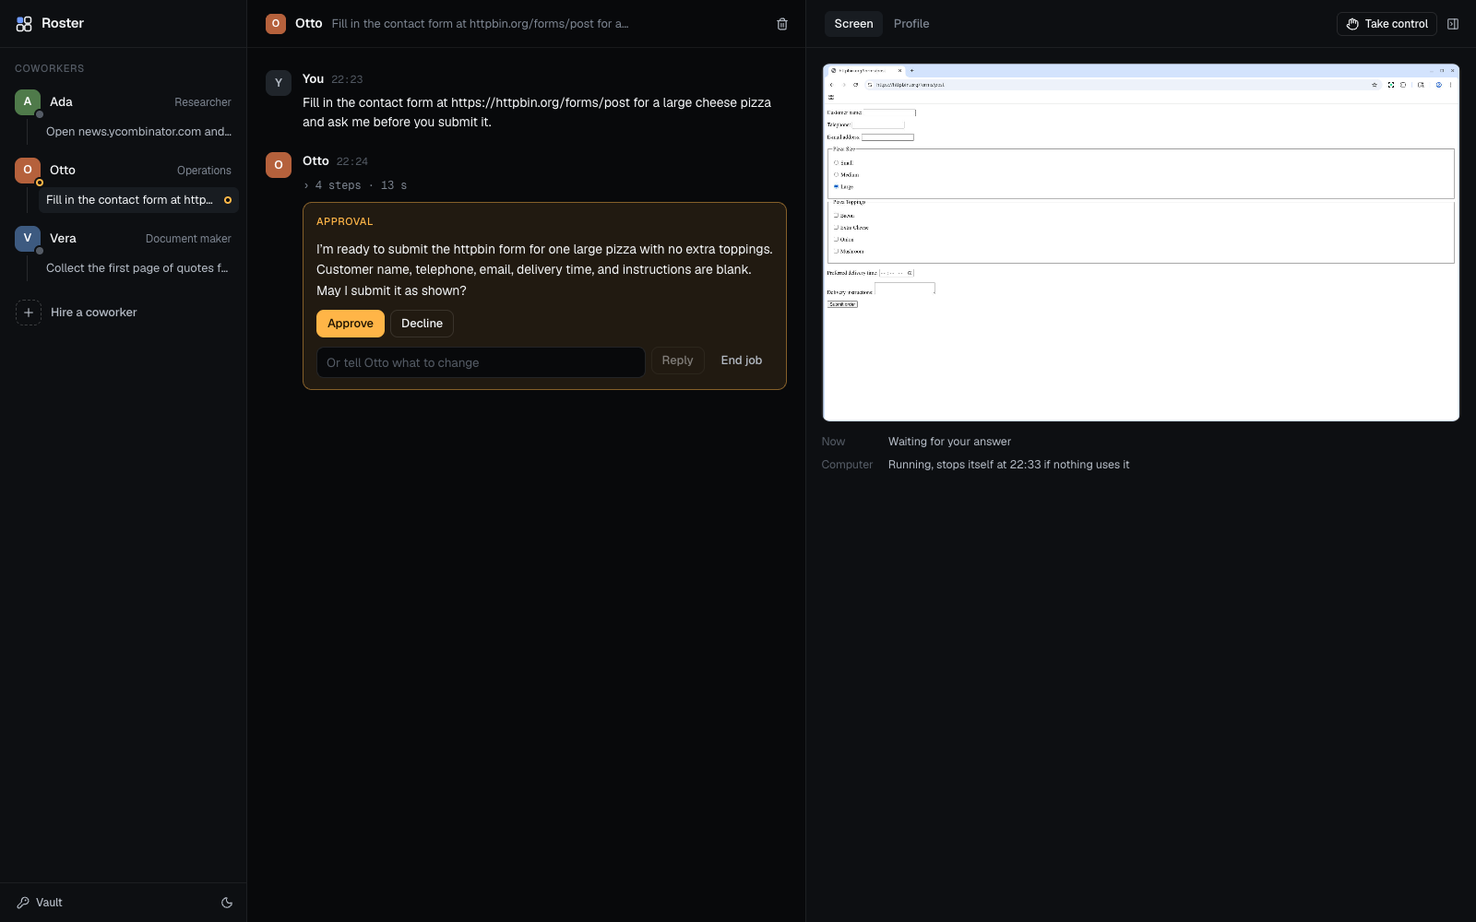
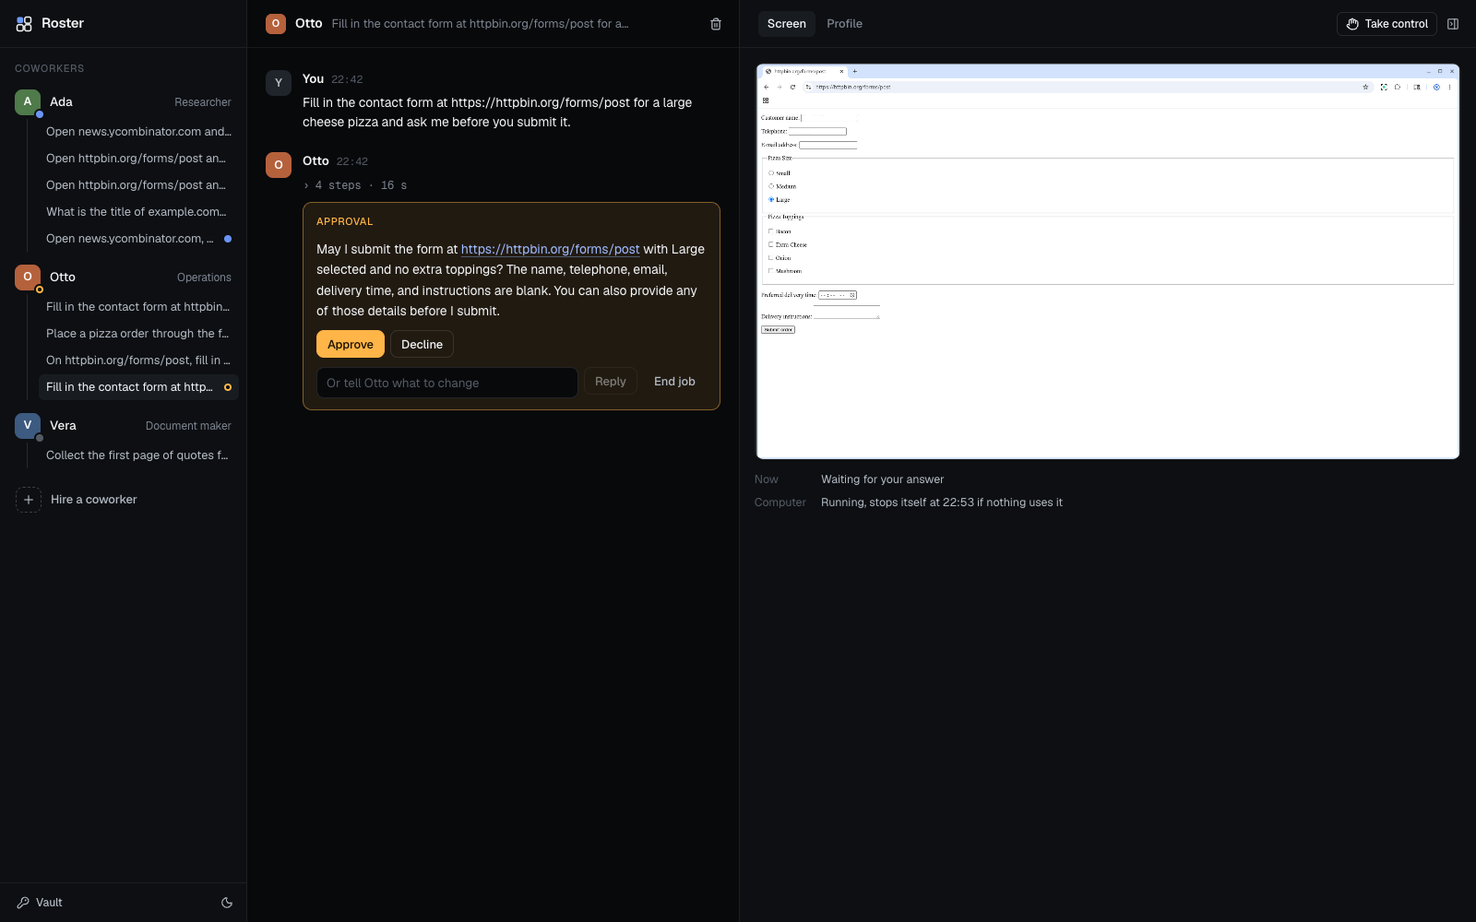
feat(coworkers): show waiting jobs plainly, and document the example
A job that is queued or whose Computer is still starting had a steer box
and a "session has ended" screen, which read as broken. The composer and
the screen now say the job is waiting to start. The conversation column
is narrower so the live screen gets the room.

Adds the README, the build log, screenshots taken from real jobs, and
tests for the step folding and the job rules.

diff --git a/examples/coworkers/src/ui/thread/Screen.tsx b/examples/coworkers/src/ui/thread/Screen.tsx
@@ -24,6 +24,8 @@ export function Screen({ coworker, thread, doing, idleDeadline, onRelease }: Scr
   const driving = thread.status === "yours";
   const left = idleDeadline ? Math.ceil((Date.parse(idleDeadline) - now) / 1000) : null;
   const state = coworker.computer;
+  // A job that is queued, or whose Computer is still starting, has no session to show yet.
+  const pending = !thread.stream && thread.status === "working";
 
   return (
     <div className="screen">
@@ -38,16 +40,26 @@ export function Screen({ coworker, thread, doing, idleDeadline, onRelease }: Scr
           </button>
         </div>
       ) : null}
-      <div className="frame" data-driver={driving ? "human" : thread.status === "working" ? "agent" : undefined}>
+      <div className="frame" data-driver={driving ? "human" : thread.status === "working" && thread.stream ? "agent" : undefined}>
         {thread.stream ? (
           <Desktop thread={thread.id} stream={thread.stream} driving={driving} onProblem={onProblem} />
         ) : (
           <div className="frame-msg">
             <MonitorOff />
-            <h2>{state === "starting" ? `Starting ${coworker.name}'s computer` : state === "running" ? "This thread's session has ended" : state === "none" ? `${coworker.name} has no computer yet` : `${coworker.name}'s computer is stopped`}</h2>
-            <p>
+            <h2>
               {state === "starting"
-                ? "It takes a moment. The screen appears here."
+                ? `Starting ${coworker.name}'s computer`
+                : pending
+                  ? `Waiting for ${coworker.name}'s computer`
+                  : state === "running"
+                    ? "This thread's session has ended"
+                    : state === "none"
+                      ? `${coworker.name} has no computer yet`
+                      : `${coworker.name}'s computer is stopped`}
+            </h2>
+            <p>
+              {state === "starting" || pending
+                ? "The screen appears here when the job starts."
                 : state === "none"
                   ? "Its first job creates one."
                   : "The next message here opens it again, with its sign-ins and skills. Answers and files in the thread are kept."}
@@ -58,7 +70,7 @@ export function Screen({ coworker, thread, doing, idleDeadline, onRelease }: Scr
       {problem && thread.stream ? <p className="problem">{problem}</p> : null}
       <dl className="now">
         <dt>Now</dt>
-        <dd>{driving ? "Waiting for you to hand back" : thread.status === "working" ? (doing ?? "Working") : thread.status === "asking" ? "Waiting for your answer" : "Idle"}</dd>
+        <dd>{driving ? "Waiting for you to hand back" : pending ? "Waiting to start" : thread.status === "working" ? (doing ?? "Working") : thread.status === "asking" ? "Waiting for your answer" : "Idle"}</dd>
         <dt>Computer</dt>
         <dd>
           {state === "running" ? `Running${coworker.expiresAt ? `, stops itself at ${clock(Date.parse(coworker.expiresAt))} if nothing uses it` : ""}` : state === "none" ? "Not created yet" : state[0].toUpperCase() + state.slice(1)}

diff --git a/examples/coworkers/src/server/jobs.test.ts b/examples/coworkers/src/server/jobs.test.ts
@@ -1,0 +1,74 @@
+import { mkdtemp, rm } from "node:fs/promises";
+import { tmpdir } from "node:os";
+import path from "node:path";
+import { afterAll, describe, expect, it, vi } from "vitest";
+
+vi.mock("server-only", () => ({}));
+
+const dataDir = await mkdtemp(path.join(tmpdir(), "coworkers-jobs-"));
+process.env.COWORKERS_DATA_DIR = dataDir;
+process.env.COWORKERS_SECRET = "a-secret-for-the-tests-only";
+const { open, read, seal } = await import("./store");
+const { context, titleOf } = await import("./jobs");
+const { storedFile } = await import("./turns");
+const { secretValues, setSecret, listSecrets } = await import("./vault");
+
+afterAll(() => rm(dataDir, { recursive: true, force: true }));
+
+describe("the store", () => {
+  it("starts a new workspace with three coworkers and no Computers", async () => {
+    const { coworkers, threads } = await read();
+    expect(coworkers.map((c) => c.name)).toEqual(["Ada", "Otto", "Vera"]);
+    expect(coworkers.every((c) => c.computer === undefined && c.suggestion)).toBe(true);
+    expect(threads).toEqual([]);
+  });
+
+  it("seals a secret so that only the key opens it", () => {
+    const sealed = seal("credentials");
+    expect(sealed).not.toContain("credentials");
+    expect(open(sealed)).toBe("credentials");
+  });
+});
+
+describe("context", () => {
+  const ada = { name: "Ada", role: "Researcher", brief: "Finds things out." };
+
+  it("carries the coworker's role and brief, and the approval rule", () => {
+    const text = context(ada);
+    expect(text).toContain("You are Ada, the researcher on this team. Finds things out.");
+    expect(text).toContain("Approval needed:");
+    expect(text).not.toContain("Earlier in this thread");
+  });
+
+  it("tells a freshly opened session what the thread already covered", () => {
+    const text = context(ada, [{ ask: "Top stories?", summary: "Three stories." }]);
+    expect(text).toContain("- Asked: Top stories?");
+    expect(text).toContain("You answered: Three stories.");
+  });
+});
+
+describe("titleOf", () => {
+  it("names a thread after its first message, without the scheme", () => {
+    expect(titleOf("Open https://news.ycombinator.com and\n give me the top three")).toBe("Open news.ycombinator.com and give me the top three");
+  });
+});
+
+describe("storedFile", () => {
+  it("keeps a returned file inside its job's folder", () => {
+    expect(storedFile("job-1", "out/report.pdf")).toBe(path.join(dataDir, "files", "job-1", "out", "report.pdf"));
+    expect(() => storedFile("job-1", "../job-2/report.pdf")).toThrow();
+  });
+});
+
+describe("the vault", () => {
+  it("lists names and never values", async () => {
+    await setSecret({ name: "CRM_PASSWORD", value: "hunter2", note: "The CRM" });
+    expect(JSON.stringify(await listSecrets())).not.toContain("hunter2");
+    expect(await secretValues()).toEqual({ CRM_PASSWORD: "hunter2" });
+    expect(JSON.stringify(await read())).not.toContain("hunter2");
+  });
+
+  it("refuses a name a shell couldn't use", async () => {
+    await expect(setSecret({ name: "my key", value: "x" })).rejects.toThrow();
+  });
+});

diff --git a/examples/coworkers/src/shared/fold.test.ts b/examples/coworkers/src/shared/fold.test.ts
@@ -1,0 +1,53 @@
+import { describe, expect, it } from "vitest";
+import { question } from "./api";
+import type { WireEvent } from "./events";
+import { fold, latest, stepCount } from "./fold";
+
+const event = (id: number, extra: Partial<WireEvent>): WireEvent => ({ id, turnId: "t1", at: 1000 * id, type: "x", ...extra });
+const step = (id: string, state: string, title = "Open a page") => ({ step: { id, state, kind: "browser", title } });
+
+describe("fold", () => {
+  it("keeps one row per step, updated when the step ends", () => {
+    const work = fold([
+      event(1, { input: { kind: "run", text: "Find it" } }),
+      event(2, { progress: { text: "Looking." } }),
+      event(3, step("s1", "running")),
+      event(4, step("s1", "completed")),
+      event(5, step("s2", "running", "Read the page")),
+    ]).get("t1")!;
+    expect(work.items.map((item) => item.kind)).toEqual(["note", "step", "step"]);
+    expect(work.items[1]).toMatchObject({ id: "s1", state: "completed", at: 3000 });
+    expect(stepCount(work.items)).toBe("2 steps");
+    expect(latest(work.items)).toBe("Read the page");
+  });
+
+  it("ignores an event it has already folded", () => {
+    const events = [event(1, { progress: { text: "Once." } })];
+    expect(fold([...events, ...events]).get("t1")!.items).toHaveLength(1);
+  });
+
+  it("keeps each turn's work apart, with a steer inside the turn it steered", () => {
+    const turns = fold([
+      event(1, step("s1", "completed")),
+      event(2, { input: { kind: "steer", text: "Only the first page" } }),
+      event(3, { outcome: { reason: "needs_input", summary: "Which one?", files: [], durationMs: 3000, cost: null } }),
+      event(4, { turnId: "t2", input: { kind: "answer", text: "The first" } }),
+      event(5, { turnId: "t2", ...step("s2", "running") }),
+    ]);
+    expect(turns.get("t1")!.items.map((item) => item.kind)).toEqual(["step", "steer"]);
+    expect(turns.get("t1")!.outcome).toMatchObject({ reason: "needs_input", at: 3000 });
+    expect(turns.get("t2")!.items).toHaveLength(1);
+    expect(turns.get("t2")!.startedAt).toBe(4000);
+  });
+});
+
+describe("question", () => {
+  it("reads the approval mark and leaves it out of what is shown", () => {
+    expect(question("Approval needed:\nI am about to submit the order.")).toEqual({ approval: true, text: "I am about to submit the order." });
+    expect(question("  approval needed: send it?")).toEqual({ approval: true, text: "send it?" });
+  });
+
+  it("leaves any other question as it is", () => {
+    expect(question("Which account should I use?")).toEqual({ approval: false, text: "Which account should I use?" });
+  });
+});

diff --git a/examples/coworkers/src/ui/thread/Composer.tsx b/examples/coworkers/src/ui/thread/Composer.tsx
@@ -5,8 +5,8 @@ import { useRef, useState } from "react";
 import { useWorkspace } from "../app/Workspace";
 
 export interface ComposerProps {
-  /** job: a new job; steer: guidance while it works. */
-  mode: "job" | "steer";
+  /** job: a new job; steer: guidance while it works; wait: its job hasn't started, so there is nothing to steer yet. */
+  mode: "job" | "steer" | "wait";
   name: string;
   onSend: (text: string) => Promise<boolean>;
   /** Stops the job under way. */
@@ -16,10 +16,11 @@ export interface ComposerProps {
 const PLACEHOLDER = {
   job: (name: string) => `Give ${name} a job`,
   steer: (name: string) => `Steer ${name} while it works`,
+  wait: (name: string) => `${name} hasn't started on this yet`,
 };
-const HINT = { job: "", steer: "It reads this at its next step" };
+const HINT = { job: "", steer: "It reads this at its next step", wait: "" };
 
-/** One box for both: what a message means depends on what the coworker is doing. */
+/** One box for every case: what a message means depends on what the coworker is doing. */
 export function Composer({ mode, name, onSend, onStop }: ComposerProps) {
   const { ws } = useWorkspace();
   const [text, setText] = useState("");
@@ -64,6 +65,7 @@ export function Composer({ mode, name, onSend, onStop }: ComposerProps) {
           ref={box}
           value={text}
           rows={2}
+          disabled={mode === "wait"}
           placeholder={PLACEHOLDER[mode](name)}
           aria-label={PLACEHOLDER[mode](name)}
           onChange={(event) => setText(event.target.value)}

diff --git a/examples/coworkers/src/app/globals.css b/examples/coworkers/src/app/globals.css
@@ -179,7 +179,7 @@ a { color: inherit; text-decoration: none; }
 .hire { margin: 6px 0 0; justify-content: flex-start; color: var(--fg-3); height: 36px; padding: 0 8px; gap: 10px; }
 .hire .plus { display: grid; place-items: center; width: 28px; height: 28px; border-radius: 8px; border: 1px dashed var(--line-3); }
 
-.main { display: grid; grid-template-columns: minmax(400px, 5fr) minmax(0, 6fr); min-width: 0; min-height: 0; }
+.main { display: grid; grid-template-columns: minmax(400px, 4fr) minmax(0, 6fr); min-width: 0; min-height: 0; }
 .main[data-panel="closed"] { grid-template-columns: minmax(0, 1fr); }
 .col { display: grid; grid-template-rows: 52px minmax(0, 1fr) auto; min-width: 0; min-height: 0; }
 .col + .col { border-left: 1px solid var(--line); background: var(--bg-elev); }
@@ -271,6 +271,7 @@ a { color: inherit; text-decoration: none; }
 .composer:focus-within { border-color: var(--accent); }
 .composer textarea { display: block; width: 100%; min-height: 56px; max-height: 40vh; resize: none; padding: 11px 13px 2px; border: 0; background: transparent; font-size: 14px; line-height: 1.5; outline: none; }
 .composer textarea::placeholder { color: var(--fg-4); }
+.composer[data-mode="wait"] { background: none; }
 .composer-bar { display: flex; align-items: center; gap: 4px; padding: 4px 6px 6px; }
 .composer-bar .mode { font-size: 11.5px; color: var(--fg-4); margin-left: 4px; }
 .composer-bar .push { margin-left: auto; display: flex; gap: 6px; }

diff --git a/examples/coworkers/src/ui/thread/ThreadView.tsx b/examples/coworkers/src/ui/thread/ThreadView.tsx
@@ -44,7 +44,7 @@ export function ThreadView({ id }: { id: string }) {
   if (!thread || !coworker) return null;
 
   const last = jobs.at(-1);
-  const mode = last?.state === "needs_input" ? "answer" : last && WORKING.has(last.state) ? "steer" : "job";
+  const mode = last?.state === "needs_input" ? "answer" : last && WORKING.has(last.state) ? (last.turnId ? "steer" : "wait") : "job";
   const base = `/api/threads/${enc(id)}`;
   const jobAction = (job: JobView, action: string, text?: string) => act(() => call(`${base}/jobs/${enc(job.id)}`, { body: { action, text } })).then((done) => done !== undefined);
   const send = (text: string) => {
@@ -100,7 +100,7 @@ export function ThreadView({ id }: { id: string }) {
           </div>
         </div>
         {/* While it asks, the question's own reply box is the way to answer. */}
-        {mode === "answer" ? <span /> : <Composer mode={mode} name={coworker.name} onSend={send} onStop={mode === "steer" && last ? () => void jobAction(last, "cancel") : undefined} />}
+        {mode === "answer" ? <span /> : <Composer mode={mode} name={coworker.name} onSend={send} onStop={mode !== "job" && last ? () => void jobAction(last, "cancel") : undefined} />}
       </section>
 
       {panel ? (

diff --git a/examples/coworkers/src/ui/thread/Conversation.tsx b/examples/coworkers/src/ui/thread/Conversation.tsx
@@ -258,7 +258,7 @@ function LearnNote({ job, onReview }: { job: JobView; onReview: () => void }) {
           Skill active: <b className="mono">{learn.name}</b>
         </>
       ) : (
-        `No skill came of it. ${learn.reason ?? ""}`
+        `No skill came of it: ${learn.reason ?? "nothing in it was worth keeping"}.`
       )}
     </span>
   );

diff --git a/examples/coworkers/README.md b/examples/coworkers/README.md
@@ -1,0 +1,124 @@
+# Pine Computer coworkers
+
+A team chat where some of the members are AI coworkers, and each coworker has a computer
+of its own. Built on [Pine Computer](https://pinecomputer.io): every coworker gets its own
+Computer, with its own sign-ins, files and learned skills, and Pine's agent does the work.
+There is no model key in this app.
+
+It ships as **Roster**, a name to replace: rename it in [`src/brand.ts`](src/brand.ts),
+change `--accent` in [`src/app/globals.css`](src/app/globals.css), and it's yours. It is
+the [starter](../starter) rearranged around many Computers instead of one, on the same
+two SDKs: the TypeScript server SDK,
+[`@pinesandbox/computer`](https://www.npmjs.com/package/@pinesandbox/computer), and the Web
+SDK, [`@pinesandbox/computer-web`](https://www.npmjs.com/package/@pinesandbox/computer-web).
+
+![A thread with a coworker at work: its steps on the left, its Computer's live screen on the right](docs/working.png)
+
+## What it does
+
+| Feature | What a person does | How it's built | Where |
+| --- | --- | --- | --- |
+| **Coworkers** | Start with three (a researcher, an operator, a document maker) and hire more with a name, a role and a brief | A record per coworker; the role and brief go with every job as the run's `context` | [`src/server/seed.ts`](src/server/seed.ts), [`src/server/jobs.ts`](src/server/jobs.ts) |
+| **A Computer each, created lazily** | Nothing: a coworker's first job creates its Computer, later jobs reuse it, and it stops itself when idle | `createComputer` on first use, `reconnectComputer` from saved records, `startComputer` after a stop, `idleTimeoutSeconds` | [`src/server/pine.ts`](src/server/pine.ts) |
+| **Threads** | Message a coworker; follow up in the same thread; run several threads at once | A thread is one session (`createSession`, `adoptSession`); a message is `agent.run` with an idempotency key | [`src/server/jobs.ts`](src/server/jobs.ts), [`api/threads/[thread]/jobs`](src/app/api/threads/[thread]/jobs/route.ts) |
+| **The work, live** | Watch its steps arrive as compact rows, then settle into one line ("12 steps · 1 min 40 s") | `agent.events({ frames: false })` relayed as a resumable server-sent stream, folded into rows | [`…/events`](src/app/api/threads/[thread]/events/route.ts), [`src/shared/fold.ts`](src/shared/fold.ts) |
+| **Questions and approvals** | Reply under its question; Approve or Decline in one tap when it asks before it spends, sends or submits | A turn that ends `needs_input`; `agent.answer` naming that turn. The context tells it to ask and to mark approvals | [`src/ui/thread/Conversation.tsx`](src/ui/thread/Conversation.tsx), [`src/shared/api.ts`](src/shared/api.ts) |
+| **Steer and stop** | Send a message while it works, or stop it | `agent.steer`, `agent.cancel` | [`api/threads/[thread]/jobs/[job]`](src/app/api/threads/[thread]/jobs/[job]/route.ts) |
+| **The screen, and control** | See the coworker's desktop beside the thread; take control, drive, hand back | `delegateDesktop` into `<PineDesktop>`; `takeControl` / `releaseControl`; `controlEvents()` | [`src/ui/thread/Screen.tsx`](src/ui/thread/Screen.tsx), [`…/control`](src/app/api/threads/[thread]/control/route.ts) |
+| **Files** | Open or download what a job made, also after its Computer has stopped | Each file in the turn's `result.artifacts`, streamed with `openFile` into the app's own storage | [`src/server/turns.ts`](src/server/turns.ts), [`api/jobs/[job]/files`](src/app/api/jobs/[job]/files/[...path]/route.ts) |
+| **Teach it** | "Save as a skill" under a finished job; read the draft; activate it | `session.learn()` in the background, `skills.version`, `skills.activate` | [`src/server/jobs.ts`](src/server/jobs.ts), [`src/ui/thread/SkillDraft.tsx`](src/ui/thread/SkillDraft.tsx) |
+| **Profile** | See a coworker's role, brief, Computer (start, stop), skills, recent work and what each job cost | `stop()`, `sandboxDetails()`, `skills.list()`, each turn's `usage.cost` | [`src/ui/coworker/Profile.tsx`](src/ui/coworker/Profile.tsx) |
+| **Vault** | Keep secrets for the workspace and use one in a message as `$NAME` | `secrets` on every run, answer and steer, sealed at rest; the chat only ever holds the name | [`src/server/vault.ts`](src/server/vault.ts) |
+| **The queue** | Nothing: a job that can't start yet says why in the thread and starts when there's room | `CapacityExceededError` and the session limit from `capabilities()` put the job in a queue the worker retries | [`src/server/jobs.ts`](src/server/jobs.ts), [`src/server/worker.ts`](src/server/worker.ts) |
+
+A question, with one-tap approval:
+
+![A coworker asking for approval before it submits a form](docs/approval.png)
+
+A finished job with the file it made, and a coworker's profile:
+
+![A finished job with a PDF attached](docs/finished.png)
+
+![A coworker's profile: its brief, its Computer, its skills and its recent work with costs](docs/profile.png)
+
+## Run it
+
+You need Node.js 22 or later and a Pine Computer project with an API key, from the
+[Console](https://console.pinecomputer.io).
+
+```sh
+cd examples/coworkers
+npm install
+cp .env.example .env.local   # then add your project's API key and a COWORKERS_SECRET
+npm run dev
+```
+
+Open <http://localhost:3000> and hand one of the three coworkers its suggested first job.
+
+| Setting | |
+| --- | --- |
+| `PINE_SANDBOX_ENDPOINT`, `PINE_SANDBOX_API_KEY` | Your project's endpoint and key, from the console. |
+| `COWORKERS_SECRET` | Encrypts what the app keeps about its Computers: `openssl rand -base64 32`. |
+| `COWORKERS_DATA_DIR` | Where it keeps its records and copied files. Default `.data/`. |
+| `COWORKERS_IDLE_SECONDS` | How long a coworker's Computer may sit idle before it stops itself. Default 600. |
+
+## How it fits together
+
+```
+Browser                         This app's server                                   Pine
+───────                         ─────────────────                                   ────
+Composer      ── message ─────▶ POST /api/threads/:t/jobs ── record, then launch:
+                                                             ensureComputer(coworker) ──▶ its Computer
+                                                             ensureSession(thread)    ──▶ its session
+                                                             agent.run(goal, context) ──▶ a turn
+EventSource   ◀── steps ─────── GET  /api/threads/:t/events ── agent.events()        ◀── activity
+<PineDesktop> ── token ───────▶ POST /api/threads/:t/desktop ─ delegateDesktop       ──▶ screen
+Reply/Approve ── answer ──────▶ POST /api/threads/:t/jobs/:j ─ agent.answer          ──▶ next turn
+EventSource   ◀── changes ───── GET  /api/live  ◀── the worker ─ agent.wait()        ◀── outcome
+                                .data/  per coworker: credentials and binding (sealed);
+                                        per thread: the session token (sealed);
+                                        per job: the ask, steps, answer, cost and files
+```
+
+- **Every record is keyed by coworker.** A coworker's Computer has its own credentials and
+  binding; a thread's session token belongs to that Computer's current binding. Two
+  coworkers never share a browser profile, a sign-in or a skill.
+- **A job is recorded before it starts.** Starting a Computer takes a moment, so the
+  request answers at once and the launch runs in the background; the job's key is the
+  run's idempotency key, so a retry (or the worker after a restart) can't start it twice.
+- **The worker** ([`src/instrumentation.ts`](src/instrumentation.ts)) runs in the server
+  process: it follows each running job with `agent.wait`, keeps its steps, answer and
+  files, launches queued jobs, and notices a Computer that idled out.
+- **A stopped Computer loses its sessions, not its history.** The next message in a thread
+  starts the Computer from its saved state, opens a new session, and tells the agent what
+  the thread already covered.
+- **The server holds every secret.** The project key, each Computer's credentials and
+  binding, session tokens and vault values never reach a browser, which only ever holds a
+  two-minute desktop token.
+- **Approval is the app's rule, not the agent's habit.** Every job's context says to stop
+  before spending, sending or submitting and to mark the question; the thread turns that
+  mark into Approve and Decline.
+- **One person, one machine.** The app answers only on `127.0.0.1`, and only to its own
+  pages ([`src/proxy.ts`](src/proxy.ts)).
+
+## Before you ship something like it
+
+- **Add your sign-in** in [`src/proxy.ts`](src/proxy.ts) and key the store by workspace.
+- **Move the records to your database**, the files to object storage, and the encryption
+  key to your secret manager.
+- **Run one worker.** It lives in the server process here; with several processes, run it
+  once (a job queue, or a lock), and keep the event streams on a long-lived server.
+- **Budget the Computers.** Each coworker's Computer counts toward your project's limit
+  while it runs. The idle timeout is what keeps a large team cheap; set it to how long a
+  question may reasonably wait for its answer.
+
+## Develop
+
+```sh
+npm run check   # typecheck and tests
+npm run build
+```
+
+## License
+
+[Apache-2.0](LICENSE), like the SDKs it's built on.

diff --git a/examples/coworkers/docs/BUILD-LOG.md b/examples/coworkers/docs/BUILD-LOG.md
@@ -6,3 +6,12 @@ Wall-clock times, from `date`, in PST.
 - 2026-11-12 22:17:15 — Server done (store, one Computer per coworker, jobs, worker, routes); first job sent to a real Computer through the API.
 - 2026-11-12 22:19:07 — Job 1 (researcher, Hacker News) finished on a real Computer: 30 s.
 - 2026-11-12 22:26:02 — Interface done (sidebar, conversation, screen, profile, hire, vault). Jobs 2 (PDF attachment) and 3 (approval, answered with Approve in the browser) finished on real Computers.
+- 2026-11-12 22:36:30 — Jobs 4 (two coworkers working at once) and 5 (take control mid-job, type, hand back) proven on real Computers.
+- 2026-11-12 22:38:27 — Queueing proven: a fourth job on a Computer busy in three threads waited, said so in the thread, and started when one finished.
+- 2026-11-12 22:40:38 — "Save as a skill" run three times on finished jobs; the Computer declined to author a skill each time, and the thread shows its reason. A draft, and activating one, were not seen.
+- 2026-11-12 22:45:38 — Every state checked in a browser, light and dark; the four screenshots in this folder taken from real jobs.
+- 2026-11-12 22:46:56 — All three Computers stopped, each stop confirmed.
+- 2026-11-12 22:47:22 — `npm run check` and `npm run build` pass.
+- 2026-11-12 22:47:33 — End, before the last commit. Total: 38 min 49 s.
+
+Time blocked on outside things: none. No outage, rate limit or capacity limit was met.
